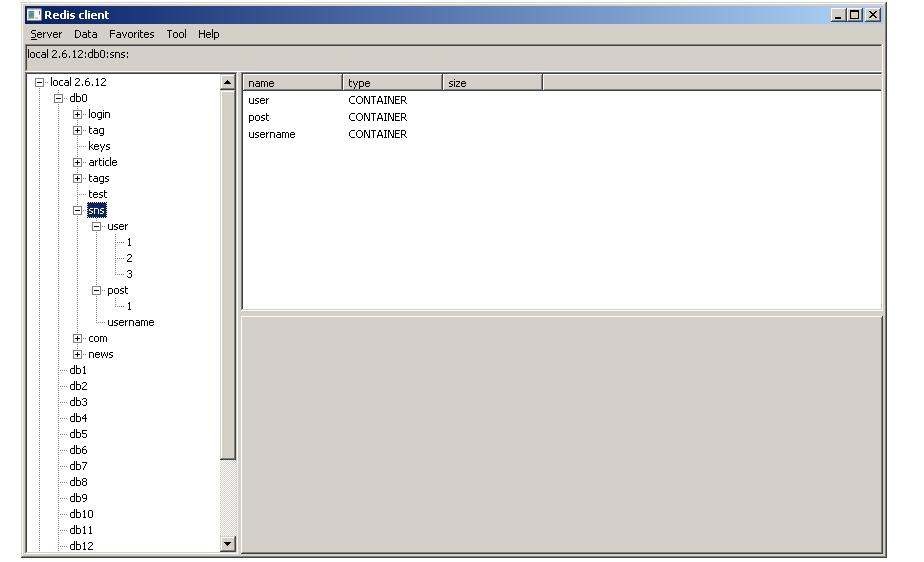
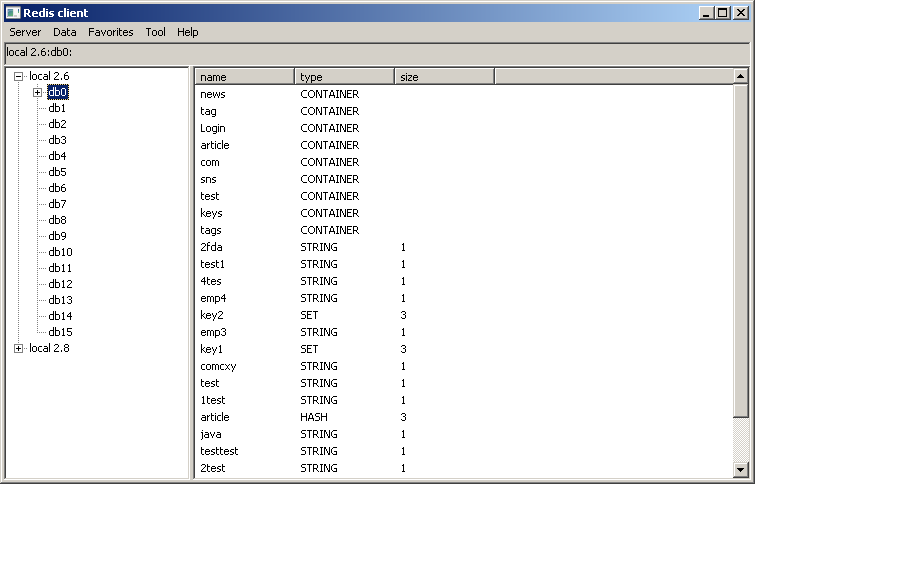
screen shot

diff --git a/src/main/java/com/cxy/redisclient/RedisClient.java b/src/main/java/com/cxy/redisclient/RedisClient.java
@@ -160,9 +160,7 @@ public class RedisClient {
 
 		initTable(sashForm_1);
 
-		TabFolder tabFolder = new TabFolder(sashForm_1, SWT.NONE);
-
-		sashForm_1.setWeights(new int[] { 1, 1 });
+		sashForm_1.setWeights(new int[] { 1 });
 
 		sashForm.setWeights(new int[] { 1, 3 });
 		sashForm_2.setWeights(new int[] { 22, 368 });
